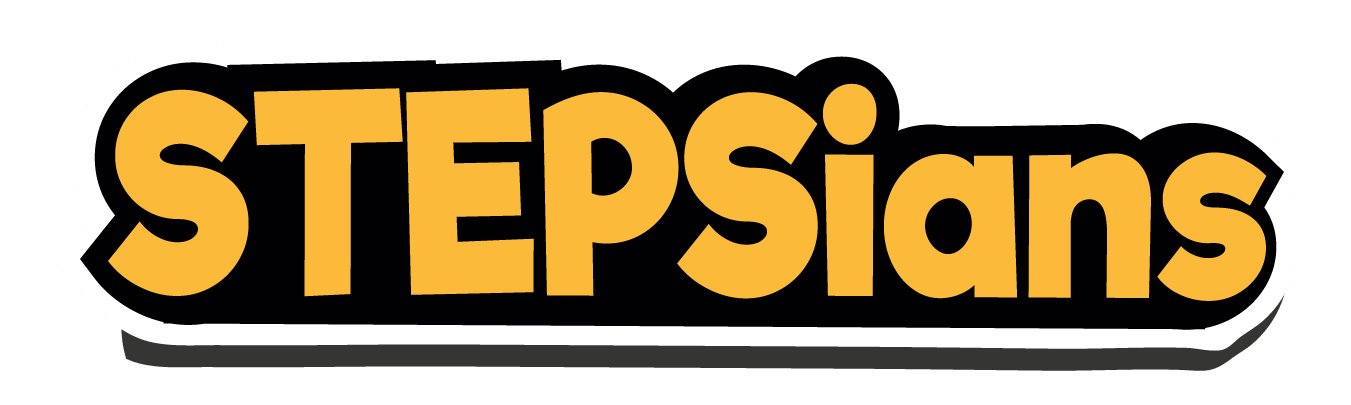
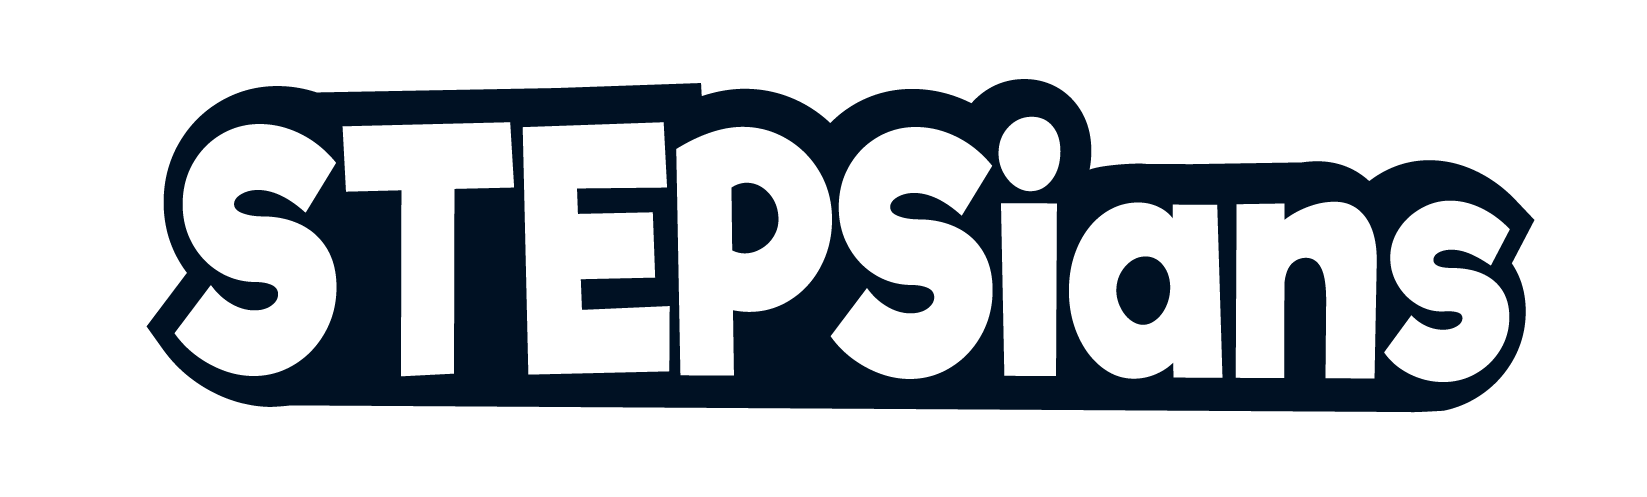
Final From Dev2

diff --git a/home/templates/home/about.html b/home/templates/home/about.html
@@ -8,19 +8,11 @@
     }
 </style>
 <!-- page title -->
-<section class="page-title-section overlay" data-background="{% static 'home/images/backgrounds/page-title.jpg' %}">
-    <div class="container">
-        <div class="row">
-            <div class="col-md-8">
-                <ul class="list-inline custom-breadcrumb">
-                    <li class="list-inline-item h2 text-primary font-secondary">About Us</li>
-                    <li class="list-inline-item text-white h3 font-secondary @@nasted"></li>
-                </ul>
-                <p class="text-lighten">Our courses offer a good compromise between the continuous assessment favoured by some universities and the emphasis placed on final exams by others.</p>
-            </div>
-        </div>
+<div>
+    <div class="card rounded-3 shadow">
+        <img class="card-img-top " src="{% static 'home/images/aboutbackground.png' %}" alt="">
     </div>
-</section>
+</div>
 <!-- /page title -->
 
 <!-- about -->
@@ -31,11 +23,11 @@
                 <h2 class="section-title">ABOUT OUR JOURNY</h2>
 
                 <abbr title="STEPS Iftar 2019"><img class="img-fluid w-75 mb-2 ml-3" src="{% static 'home/images/about/team.jpg' %}" alt="about image" style="float: right;"></abbr>
-                <p>Two Friends; two dreamers; dreamt in their college life to do something; do something for our education system; for the Bangladeshi students.They wanted to make a platform where they could bring the students to a new horizon of their life.
-                    One of them got chance in Buet and other was in Dhaka University.The milestone might be founded in the basis of this phenomena. They founded a co-educational platform named "steps" so that they could help the students like them who
-                    had enough potential and make them bloom. They made the things easier for the students to get chance in reputed universities.Every year few students got chance in public universities and they also joined at steps to contribute as well.They
-                    also became the heroes of new students; became an ideal stepsian. During the pandemic of corona, parvej and rony, two pioneer, again founded this online platform named "STEPSIANS" with the stepsians to support all the students from
-                    home and the endless journey started, and obviously it is free.</p>
+                <p>Two Friends; two dreamers; dreamt in their college life to do something; do something for our education system; for the Bangladeshi students. They wanted to make a platform where they could bring the students to a new horizon of their
+                    life. One of them got chance in BUET and other was in University of Dhaka. The milestone might be founded in the basis of this phenomena. They founded a co-educational platform named "STEPS" so that they could help the students like
+                    them who had enough potential and make them bloom. They made the things easier for the students to get chance in reputed universities. Every year few students got chance in public universities and they also joined at STEPS to contribute
+                    as well. They also became the heroes of new students; became an ideal stepsians. During the pandemic of corona, Parvej and Rony, two pioneer, again founded this online platform named "STEPSians" with the stepsians to support all the
+                    students from home and the endless journey started, and obviously it is free.</p>
             </div>
         </div>
     </div>
@@ -51,7 +43,7 @@
                 <abbr title="Our Classrooms"><img class="img-fluid w-75" src="{% static 'home/images/about/Tree aboutus.png' %}" alt="about image" style="float: right;"></abbr>
                 <h2 class="section-title" style="margin-top: 0px;">WHAT WE TEACH</h2>
                 <p style="margin-top: 0px;">We believe that there is no boundary of teaching and learning. Hence you will find here both the academic lessons and sometimes you will be introduced with the lesson out of the box. In academic lessons we will support from the very begining
-                    even it could be play group students to job preperations of freshly baked graduate. In non academic section you can get some skill development lessons of every aspects of life so far we can go.
+                    even it could be play group students to job preperations of freshly baked graduates. In non academic section you can get some skill development lessons of every aspects of life so far we can go.
                 </p>
             </div>
         </div>
@@ -65,24 +57,24 @@
     <div class="container">
         <div class="row">
             <!-- funfacts item -->
-            <div class="col-md-4 col-sm-3 mb-4 mb-md-0">
+            <div class="col-lg-4 col-sm-3 mb-4 mb-md-0">
                 <div class="text-center">
                     <h2 class="text-white">{{ number_of_teacher }}</h2>
                     <h5 class="text-white">TEACHERS</h5>
                 </div>
             </div>
             <!-- funfacts item -->
-            <div class="col-md-4 col-sm-3 mb-4 mb-md-0">
+            <div class="col-lg-4 col-sm-3 mb-4 mb-md-0">
                 <div class="text-center">
                     <h2 class="text-white">{{ number_of_course }}</h2>
                     <h5 class="text-white">COURSES</h5>
                 </div>
             </div>
             <!-- funfacts item -->
-            <div class="col-md-4 col-sm-3 mb-4 mb-md-0">
+            <div class="col-lg-4 col-sm-3 mb-4 mb-md-0">
                 <div class="text-center">
-                    <h2 class="count text-white">1000</h2>
-                    <h5 class="text-white">STUDENTS</h5>
+                    <h2 class="text-white">{{ number_of_tutorial }}</h2>
+                    <h5 class="text-white">TUTORIALS</h5>
                 </div>
             </div>
 
@@ -148,7 +140,7 @@
                                         </div>
                                         <div class="col-sm-10">
                                             <h4>01922444626</h4>
-                                            <h4>01232131312</h4>
+                                            <h4>01882131962</h4>
                                         </div>
                                     </div>
                                 </div>
@@ -210,7 +202,7 @@
                                         </div>
                                         <div class="col-sm-10">
                                             <h4>01678231110</h4>
-                                            <h4>01232132131</h4>
+                                            <h4>01737157420</h4>
                                         </div>
                                     </div>
                                 </div>
@@ -218,7 +210,7 @@
                                     <h5 class="mb-0"> <i class="fa fa-facebook-square h3 mr-1" aria-hidden="true"></i> <a href="https://www.facebook.com/raqibhossain.rony" style="color: #001123;">Raqib Hossain Rony</a> </h5>
                                 </div>
                                 <div class="list-group-item">
-                                    <h5 class="mb-0"><i class="fa fa-linkedin-square h3 mr-1" aria-hidden="true"></i>Raqib Hossain Rony</h5>
+                                    <h5 class="mb-0"><i class="fa fa-linkedin-square h3 mr-1" aria-hidden="true"></i> <a href="https://www.linkedin.com/in/raqib-hossain-rony-3846a7b3/" style="color: #001123;">Raqib Hossain Rony</a> </h5>
 
                                 </div>
                             </div>

diff --git a/home/templates/home/base.html b/home/templates/home/base.html
@@ -31,8 +31,8 @@
 
 
     <!--Favicon-->
-    <link rel="shortcut icon" href="{% static 'home/images/favicon.png' %}" type="image/x-icon">
-    <link rel="icon" href="{% static 'home/images/1.png' %}" type="image/x-icon">
+    <link rel="shortcut icon" href="{% static 'home/images/icon.png' %}" type="image/x-icon">
+    <link rel="icon" href="{% static 'home/images/icon.png' %}" type="image/x-icon">
 
 </head>
 
@@ -120,7 +120,7 @@
 
         <!-- navbar -->
         <nav class="navbar navbar-custom smart-scroll navbar-expand-lg navbar-dark ">
-            <img src="{% static 'home/images/2.png' %}" alt="" class="tl" style="width: 267px;height: auto;">
+            <img src="{% static 'home/images/1.png' %}" alt="" class="tl" style="width: 267px;height: auto;">
             <button class="navbar-toggler" type="button" data-toggle="collapse" data-target="#main_nav" aria-expanded="false" aria-label="Toggle navigation">
       <span class="navbar-toggler-icon"></span>
             </button>
@@ -168,7 +168,7 @@
                 <div class="row">
                     <div class="col-sm-4 ov" style="text-align: center; padding: 20px;">
                         <!-- logo -->
-                        <img src="{% static 'home/images/2.png' %}" alt="" style="width: 267px;height: auto;" class="imov">
+                        <img src="{% static 'home/images/1.png' %}" alt="" style="width: 207px;height: auto;" class="imov">
                         <ul class="list-unstyled">
                             <li class="mb-2 text-white">STEPS Academic and Admission Care</li>
                             <li class="mb-2 text-white">Shahjadpur, Dhaka-1212</li>
@@ -176,7 +176,7 @@
                             <li class="mb-2 text-white">+880 1678-231110</li>
                         </ul>
                     </div>
-                    <div class="col-sm-4 ov" style="text-align: center; padding: 20px;">
+                    <div class="col-sm-4 ov" style="text-align: center; padding: 27px;">
                         <!-- logo -->
                         <h2 class="text-white" style="text-align: center;">About</h2>
                         <ul class="list-unstyled">
@@ -186,7 +186,7 @@
                             <li class="mb-2 text-white">Magazine(Coming Soon)</li>
                         </ul>
                     </div>
-                    <div class="col-sm-4 ov" style="text-align: center; padding: 20px;">
+                    <div class="col-sm-4 ov" style="text-align: center; padding: 27px;">
                         <h2 class="text-white" style="text-align: center;">We are on</h2>
                         <ul class="list-inline">
                             <li class="list-inline-item"><abbr title="Facebook Page"><a class="d-inline-block p-2" href="https://www.facebook.com/Stepsians-113518887048688/"><i class="fa fa-facebook-square h3 hv text-white" aria-hidden="true"></i></a></abbr></li>

diff --git a/home/templates/home/index.html b/home/templates/home/index.html
@@ -83,6 +83,19 @@
         box-shadow: 0 10px 10px -10px #8c8b8b inset;
     }
     
+    .containerr {
+        position: relative;
+    }
+    /* Bottom right text */
+    
+    .text-block {
+        position: absolute;
+        top: 8vw;
+        left: 1vw;
+        padding-left: 15px;
+        padding-right: 20px;
+    }
+    
     @media screen and (max-width: 995px) {
         .btnpx {
             padding: 15px 20px;
@@ -101,28 +114,12 @@
             padding: 15px 10px;
         }
     }
-    
-    .containerr {
-        position: relative;
-    }
-    /* Bottom right text */
-    
-    .text-block {
-        position: absolute;
-        top: 5vw;
-        left: 5vw;
-        background-color: rgb(95, 91, 91, 0.5);
-        color: white;
-        padding-left: 20px;
-        padding-right: 20px;
-        margin-bottom: auto;
-    }
 </style>
 <section>
     <div class="containerr">
         <img src="{% static 'home/images/homebackground.png' %}" alt="home" style="width:100%;">
-        <div class="col-md-4 col-sm-4 col-4 text-block">
-            <h2 class="text-white" style="font-size: 4vw;text-align: center;">Welcome to the community. <br> You are free to learn and share anything.</h2>
+        <div class="col-md-5 col-sm-5 col-5 text-block">
+            <h1 class="" style="font-size: 6vw;text-align: center;color: #001123;">" A platform for the best of the best "</h1>
         </div>
     </div>
 </section>
@@ -137,7 +134,7 @@
                 <img class="img-fluid w-100" src="static/home/images/about/Tree aboutus.png" alt="about">
             </div>
             <div class="col-md-6">
-                <h2 class="section-title">About STEPS</h2>
+                <h2 class="section-title">About STEPSians</h2>
                 <p class="h3 mb-4">We are an online educational platform of Bangladesh by which we are spreading light of education through the window of every student.</p>
                 <a href="{% url 'about' %}" class="btn btn-primary btnpx">Learn more</a>
             </div>
@@ -194,7 +191,7 @@
             </div>
             <div class="col-md-6">
                 <h2 class="section-title">Blog</h2>
-                <p class="h3 mb-4">Want to share your talent? We have our own blog. You can express your talent here.</p>
+                <p class="h3 mb-4">Want to share your ideas, writings or thoughts? We have our own blog. You can express your ideas, writings or thoughts here.</p>
                 <a href="{% url 'post_blog' %} " class="btn btn-primary btnpx">Post</a>
             </div>
         </div>

diff --git a/blog/templates/blog/blog.html b/blog/templates/blog/blog.html
@@ -5,14 +5,14 @@
     </div>
 </div>
 <script>
-     if (sessionStorage.getItem("Page2Visited")) {
-          sessionStorage.removeItem("Page2Visited");
-          window.location.reload(true); // force refresh page1
-     }
+    if (sessionStorage.getItem("Page2Visited")) {
+        sessionStorage.removeItem("Page2Visited");
+        window.location.reload(true); // force refresh page1
+    }
 </script>
 <section class="shadow pb-3">
     <center>
-        <h2>Even you can post. Just click the button below to add your post.</h2>
+        <h2>Write Your Post</h2>
     </center>
     <center>
         <div>
@@ -23,19 +23,18 @@
 <!-- blogs -->
 <section class="section-blog" style="margin-top: 2px;">
     {% if messages %}
-        <div class="alert alert-success" role="alert" style="text-align:center; font-size: 24px;margin-bottom: 10px;">
-            {% for message in messages %}
-                <li {% if message.tags %} class="{{ message.tags }}"{% endif %}>{{ message }}</li>
+    <div class="alert alert-success" role="alert" style="text-align:center; font-size: 24px;margin-bottom: 10px;">
+        {% for message in messages %}
+        <li {% if message.tags %} class="{{ message.tags }}" {% endif %}>{{ message }}</li>
 
-            {% endfor %}
+        {% endfor %}
 
-        </div>
-        <script>
-            sessionStorage.setItem("Page2Visited", "True");
-        </script>  
-    
-    {% endif %}
-    {% for posts in postlist %}
+    </div>
+    <script>
+        sessionStorage.setItem("Page2Visited", "True");
+    </script>
+
+    {% endif %} {% for posts in postlist %}
     <div class="card-blog shadow p-3 mb-2 mx-auto">
         <div class="row">
             <div class="col-sm-2">

diff --git a/home/templates/home/developer.html b/home/templates/home/developer.html
@@ -87,7 +87,7 @@
                 <img src="{% static 'home/images/developer/brother.jpg' %}" class="card-img-top" alt="...">
                 <div class="card-body text-center">
                     <h5 class="card-title mb-0">Abidur Rahman Akash</h5>
-                    <div class="card-text text-black-50">Designer and Artist</div>
+                    <div class="card-text text-black-50">Graphic Designer and Artist</div>
                 </div>
                 <div class="card-body text-center">
                     <ul class="list-inline">
@@ -97,12 +97,12 @@
                             </a>
                         </li>
                         <li class="list-inline-item">
-                            <a href="">
-                                <h2><i class="fa fa-github"></i></h2>
+                            <a href="https://www.behance.net/abidurrahman7">
+                                <h2><i class="fa fa-behance"></i></h2>
                             </a>
                         </li>
                         <li class="list-inline-item">
-                            <a href="">
+                            <a href="https://www.linkedin.com/in/abidur-rahman-akash/">
                                 <h2><i class="fa fa-linkedin-square"></i></h2>
                             </a>
                         </li>

diff --git a/home/views.py b/home/views.py
@@ -1,5 +1,5 @@
 from django.shortcuts import render
-from course.models import Course
+from course.models import Tutorial, Course
 from teacher.models import TeachersInfo
 import random
 
@@ -11,10 +11,11 @@ def index(request):
 
 
 def about(request):
-	print(TeachersInfo.objects.all().count(), Course.objects.all().count())
+	#print(TeachersInfo.objects.all().count(), Tutorial.objects.all().count())
 	context = {
 		'number_of_teacher':TeachersInfo.objects.all().count(),
-		'number_of_course':Course.objects.all().count(),
+		'number_of_course' : Course.objects.all().count(),
+		'number_of_tutorial':Tutorial.objects.all().count(),
 	}
 	return render(request, 'home/about.html', context)
 
